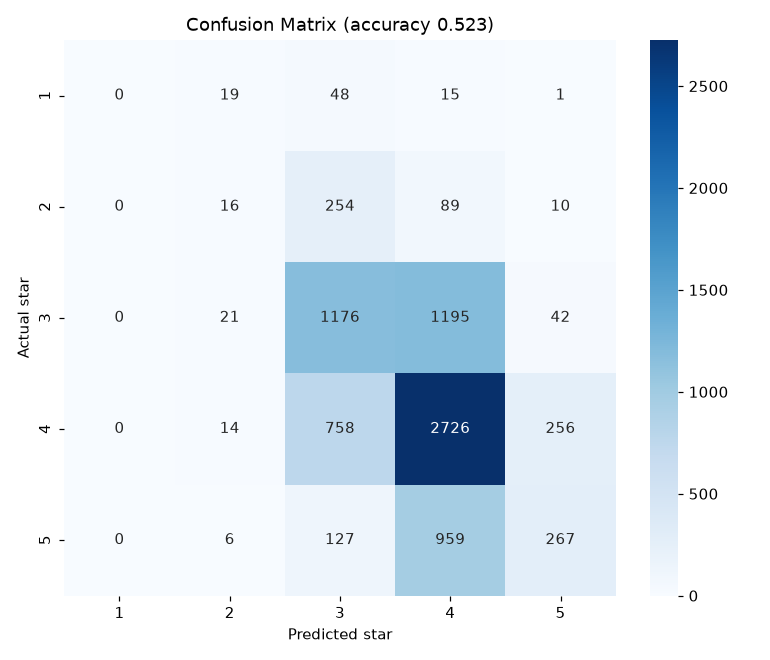
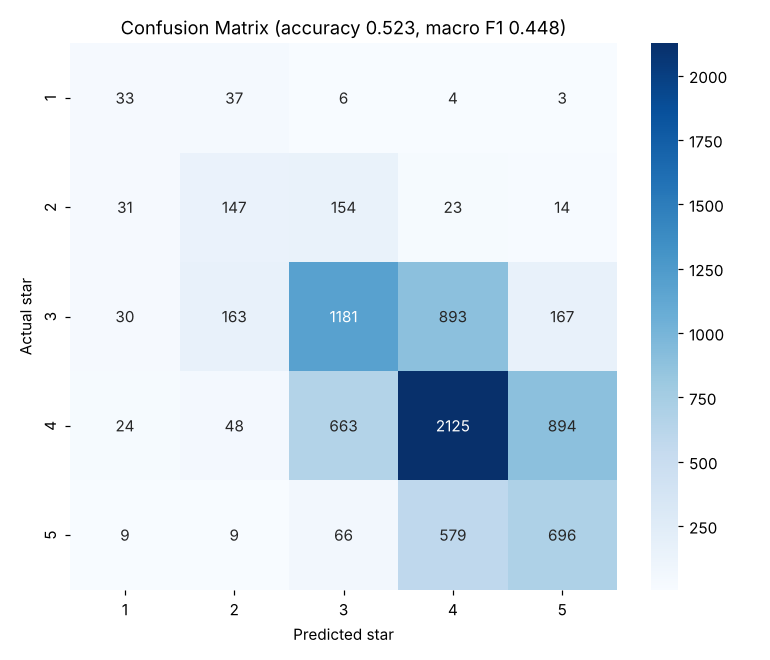
Average log-likelihood per review and tune a per-star bias on a validation split
- long reviews no longer dominate (mean instead of sum of log P)
- 20% of the train part is held out to tune one bias per star (OBJECTIVE = macro_f1 or accuracy)
- 1 star is now predicted: recall 0.00 -> 0.40, macro F1 0.29 -> 0.45, accuracy 0.523
- regenerate confusion_matrix.png

diff --git a/wongnai_nb.py b/wongnai_nb.py
@@ -29,6 +29,7 @@ FONT_PROP = font_manager.FontProperties(fname=FONT) if FONT else None
 # model settings (chosen on the validation split)
 ALPHA = 0.5          # Laplace smoothing
 MIN_COUNT = 5        # drop features seen fewer times than this in training
+OBJECTIVE = "macro_f1"  # what the per-star bias is tuned for: "macro_f1" or "accuracy"
 USE_BIGRAMS = True   # add word pairs such as "ไม่_อร่อย" to the model features
 
 # Stop words are removed for the word table / pictures, but sentiment-bearing ones (negation / intensity) are kept
@@ -80,12 +81,12 @@ def train_nb(token_lists, labels, stars):
 
 
 def nb_scores(token_lists, row, log_like):
-    """Sum of log P(word | star) of each review (unknown words are skipped)."""
+    """Average log P(feature | star) of each review (unknown features are skipped)."""
     out = np.zeros((len(token_lists), log_like.shape[1]))
     for i, toks in enumerate(token_lists):
         ix = [row[w] for w in toks if w in row]
         if ix:
-            out[i] = log_like[ix].sum(axis=0)
+            out[i] = log_like[ix].mean(axis=0)
     return out
 
 
@@ -99,6 +100,25 @@ def metrics(actual, pred, stars):
     recall = tp / support
     f1 = np.divide(2 * precision * recall, precision + recall, out=np.zeros(k), where=(precision + recall) > 0)
     return cm, precision, recall, f1, support, tp.sum() / cm.sum()
+
+
+def tune_bias(scores, actual, stars):
+    """Coordinate search for one bias per star (it replaces the log prior)."""
+    stars = np.array(stars)
+    def objective(b):
+        _, _, _, f1, _, acc = metrics(actual, stars[np.argmax(scores + b, axis=1)], stars)
+        return f1.mean() if OBJECTIVE == "macro_f1" else acc
+    bias = np.zeros(len(stars))
+    grid = np.linspace(-1, 1, 161)
+    for _ in range(3):
+        for k in range(len(stars)):
+            vals = []
+            for v in grid:
+                b = bias.copy()
+                b[k] = v
+                vals.append(objective(b))
+            bias[k] = grid[int(np.argmax(vals))]
+    return bias
 
 
 def main():
@@ -158,11 +178,20 @@ def main():
     fig3.tight_layout()
     fig3.savefig(os.path.join(OUT_DIR, "word_heatmap.png"), dpi=110)
 
-    # 5) Naive Bayes by hand: score(star) = log P(star) + sum of log P(word | star) over the review's words
-    row, log_like = train_nb(list(train.feats), train.rating.values, stars)
-    log_prior = np.log([(train.rating == s).mean() for s in stars])
+    # 5) Naive Bayes by hand: score(star) = average log P(feature | star) + bias(star)
+    # 5a) tune the per-star bias on a validation split taken from the train part
+    tr_labels = train.rating.values
+    is_val = stratified_split(tr_labels, stars, 0.2, seed=7)
+    tr_feats = list(train.feats)
+    row, log_like = train_nb([f for f, v in zip(tr_feats, is_val) if not v], tr_labels[~is_val], stars)
+    val_scores = nb_scores([f for f, v in zip(tr_feats, is_val) if v], row, log_like)
+    bias = tune_bias(val_scores, tr_labels[is_val], stars)
+    print(f"\nPer-star bias (tuned for {OBJECTIVE}): {np.round(bias, 3).tolist()}")
+
+    # 5b) retrain on the whole train part and evaluate on the test part
+    row, log_like = train_nb(tr_feats, tr_labels, stars)
     print(f"\nModel features: {len(row)} (unigrams{' + bigrams' if USE_BIGRAMS else ''}, min count {MIN_COUNT})")
-    pred = np.array(stars)[np.argmax(nb_scores(list(test.feats), row, log_like) + log_prior, axis=1)]
+    pred = np.array(stars)[np.argmax(nb_scores(list(test.feats), row, log_like) + bias, axis=1)]
     cm, precision, recall, f1, support, acc = metrics(test.rating.values, pred, stars)
     print(f"\nTest Accuracy: {acc:.4f}   Macro F1: {f1.mean():.4f}\n")
     print(f"{'star':>8}{'precision':>11}{'recall':>9}{'f1-score':>10}{'support':>9}")
